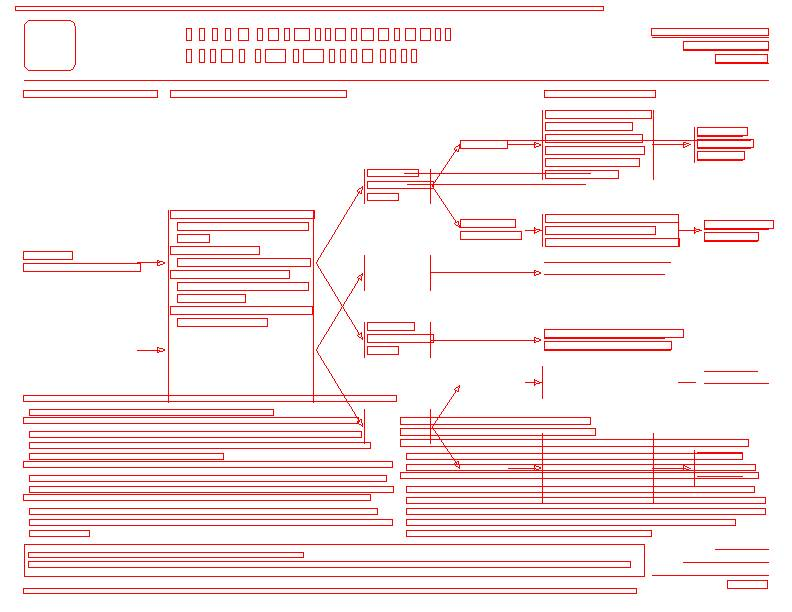
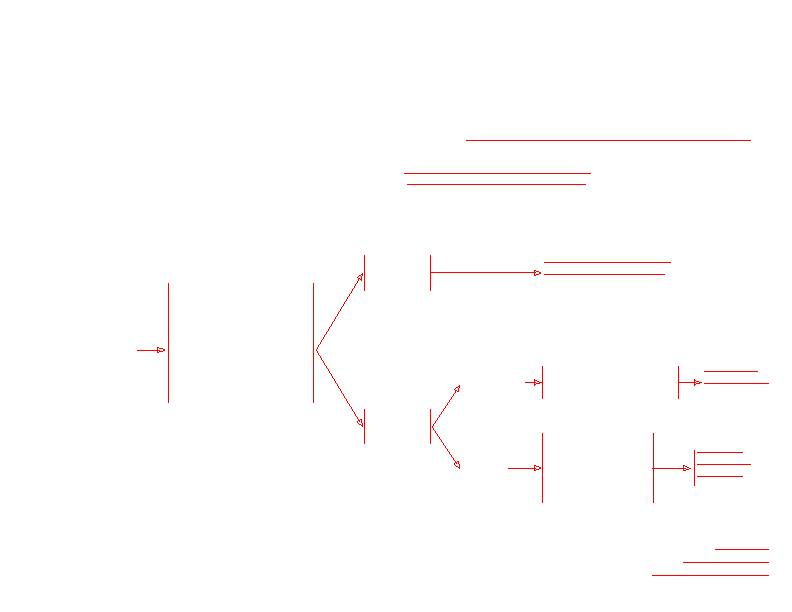
Using pathIterator to count and display all line segment in one page in console

diff --git a/GuidelineParser/src/parser/NewPageDrawer.java b/GuidelineParser/src/parser/NewPageDrawer.java
@@ -27,15 +27,19 @@ import java.awt.RenderingHints;
 import java.awt.Shape;
 import java.awt.geom.AffineTransform;
 import java.awt.geom.GeneralPath;
+import java.awt.geom.PathIterator;
 import java.awt.geom.Rectangle2D;
 import java.awt.image.BufferedImage;
 import java.io.BufferedInputStream;
 
 public class NewPageDrawer extends PageDrawer{
-
+	
+	int num_line=0;
+	int count=0;
 	Graphics2D g;
 	public NewPageDrawer(PageDrawerParameters parameters) throws IOException {
 		super(parameters);
+		num_line=0;
 		// TODO Auto-generated constructor stub
 	}
 	
@@ -47,24 +51,41 @@ public class NewPageDrawer extends PageDrawer{
 	}
 	public void strokePath() throws IOException {
 //		super.strokePath();
-		System.out.print("here");
+//		System.out.print("here");
 		GeneralPath temp = getLinePath();
 //		AffineTransform tx = AffineTransform.getTranslateInstance(0, -612);
 //		temp.transform(tx);
 		AffineTransform at = new AffineTransform();
 		at.concatenate(AffineTransform.getScaleInstance(1, -1));
 		at.concatenate(AffineTransform.getTranslateInstance(0, -612));
-		temp.transform(at);
+//		temp.transform(at);
 //		System.out.println(temp);
 //		((Graphics2D) this.g).draw(temp);
+		PathIterator i = temp.getPathIterator(at);
+		float[] coords = new float[6];
+		count=0;
+		while (i.isDone() == false) {
+			count+=1;
+			int k = i.currentSegment(coords);
+//            System.out.format("x = %f ,y = %f \n",coords[0],coords[1]);
+			i.next();
+		}
+		System.out.format("Line Number : %d , Number of Coords : %d \n",num_line,count);
+		if (count>100) {
+			this.g.setComposite(getGraphicsState().getStrokingJavaComposite());
+			this.g.draw(temp);
+	        temp.reset();
+		}
+		num_line+=1;
 //		temp.reset();
-		this.g.setComposite(getGraphicsState().getStrokingJavaComposite());
-		this.g.draw(temp);
+//		this.g.setComposite(getGraphicsState().getStrokingJavaComposite());
+//		this.g.draw(temp);
 //        temp.reset();
 	}
 	
 	public void fillPath(int windingRule) throws IOException {
 //		super.fillPath(windingRule);
+		
 	}
     public void showAnnotation(PDAnnotation annotation) throws IOException{
 //    	super.showAnnotation(annotation);

diff --git a/GuidelineParser/src/parser/NewPDFRenderer.java b/GuidelineParser/src/parser/NewPDFRenderer.java
@@ -54,6 +54,7 @@ public class NewPDFRenderer extends PDFRenderer {
         g2d.clearRect(0, 0, image.getWidth(), image.getHeight());
         this.page = pageIndex;
 		this.dpi=dpi;
+        g2d.setColor(Color.RED);
 		
 		
 	}
@@ -89,7 +90,6 @@ public class NewPDFRenderer extends PDFRenderer {
         for (int i = 0; i < numberOfStrings; i++)
         {
 
-            g2d.setColor(Color.RED);
             g2d.draw (wordbounds.get(i).bound);
             //Iterate through each wordbound object and draw its corresponding bounding box over the page 
         }

diff --git a/GuidelineParser/src/parser/NewPDFTextStripper.java b/GuidelineParser/src/parser/NewPDFTextStripper.java
@@ -80,7 +80,7 @@ public class NewPDFTextStripper extends PDFTextStripper{
 		super.writePage();
 		NewPDFRenderer drawer = new NewPDFRenderer(document,pageIndex,dpi);
 		//Expending the code of Writepage from PDFtextStripper to render a image to visualily verify bounding boxes
-		drawer.DrawWordBounds(pageIndex,wordbounds);
+//		drawer.DrawWordBounds(pageIndex,wordbounds);
 //		drawer.OutputImage();
 //		renderer.renderImageWithDPI(page, dpi, imageType);
 		drawer.rendergeometry(pageIndex,wordbounds);
